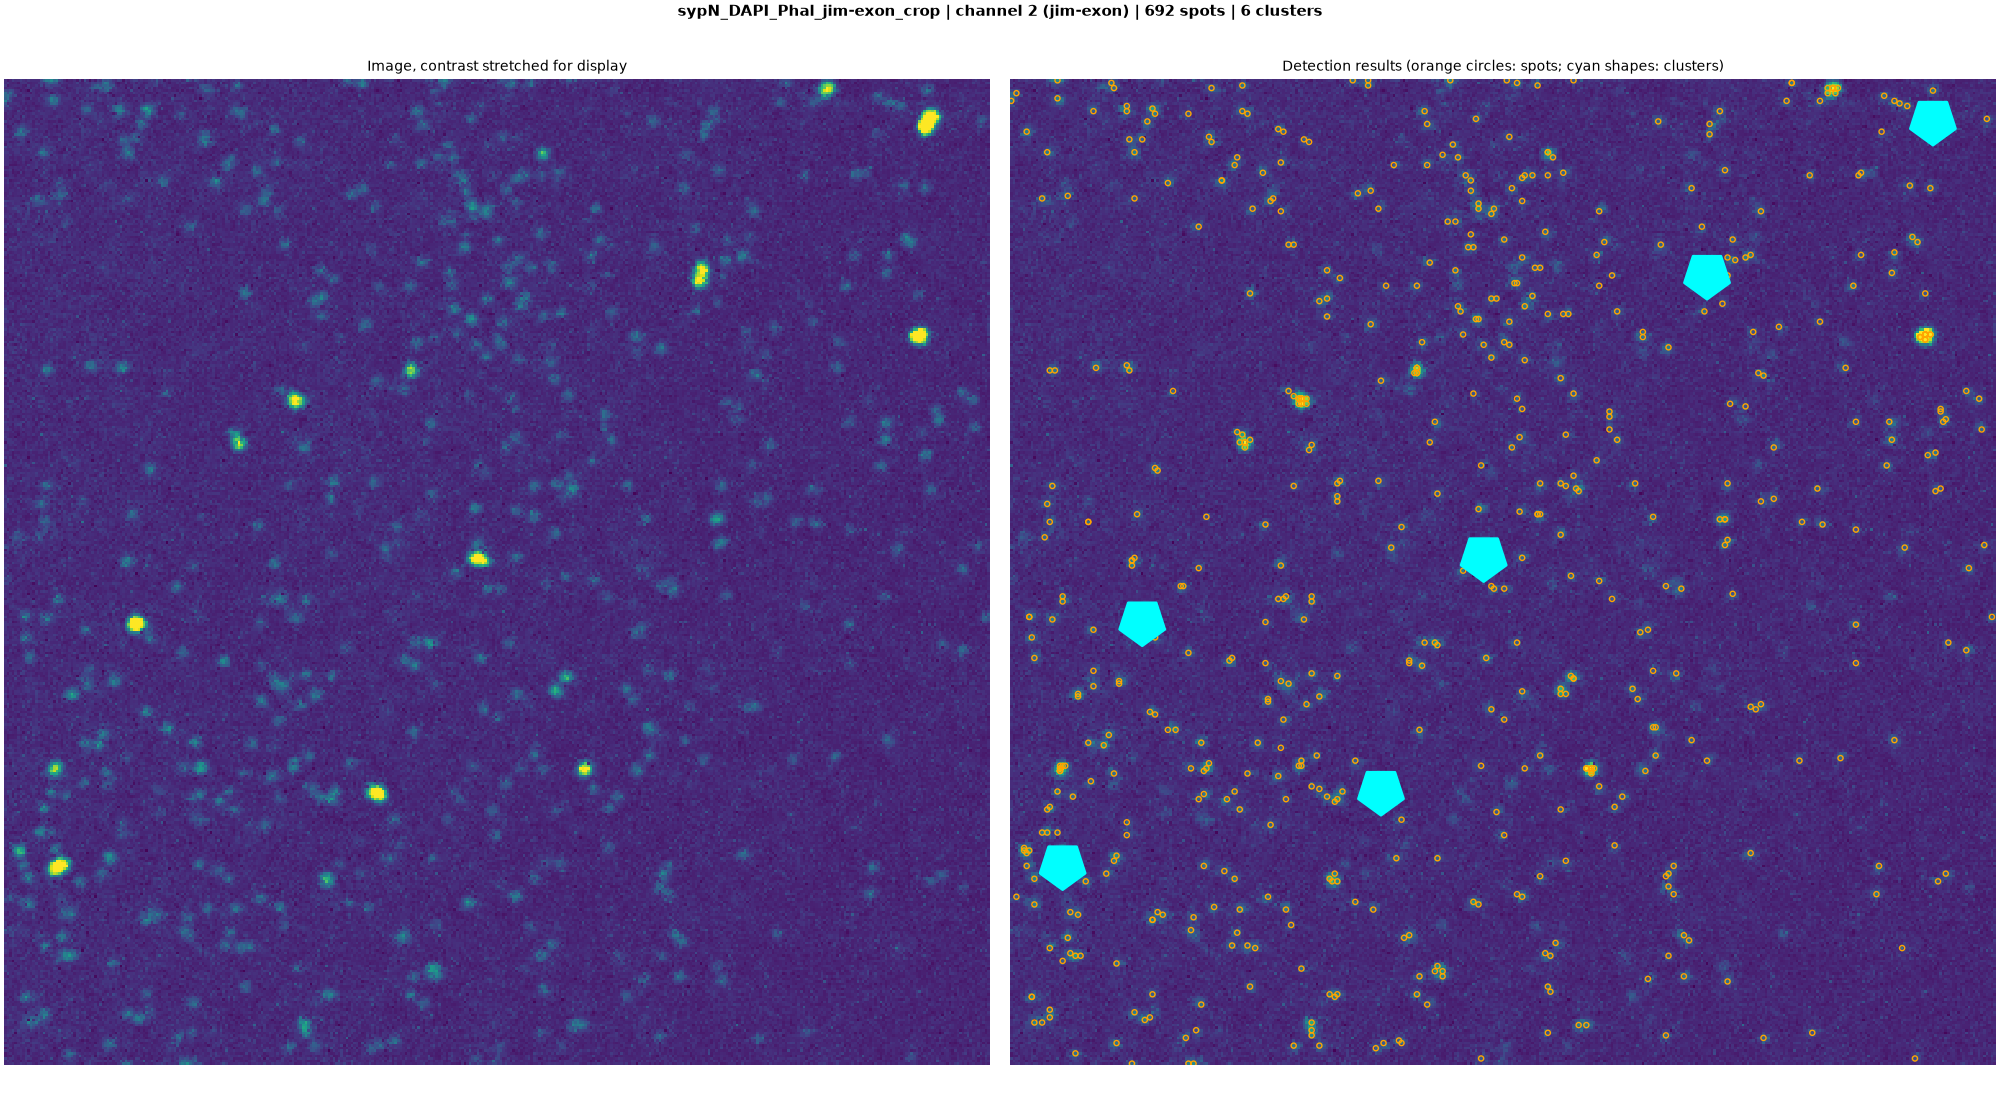
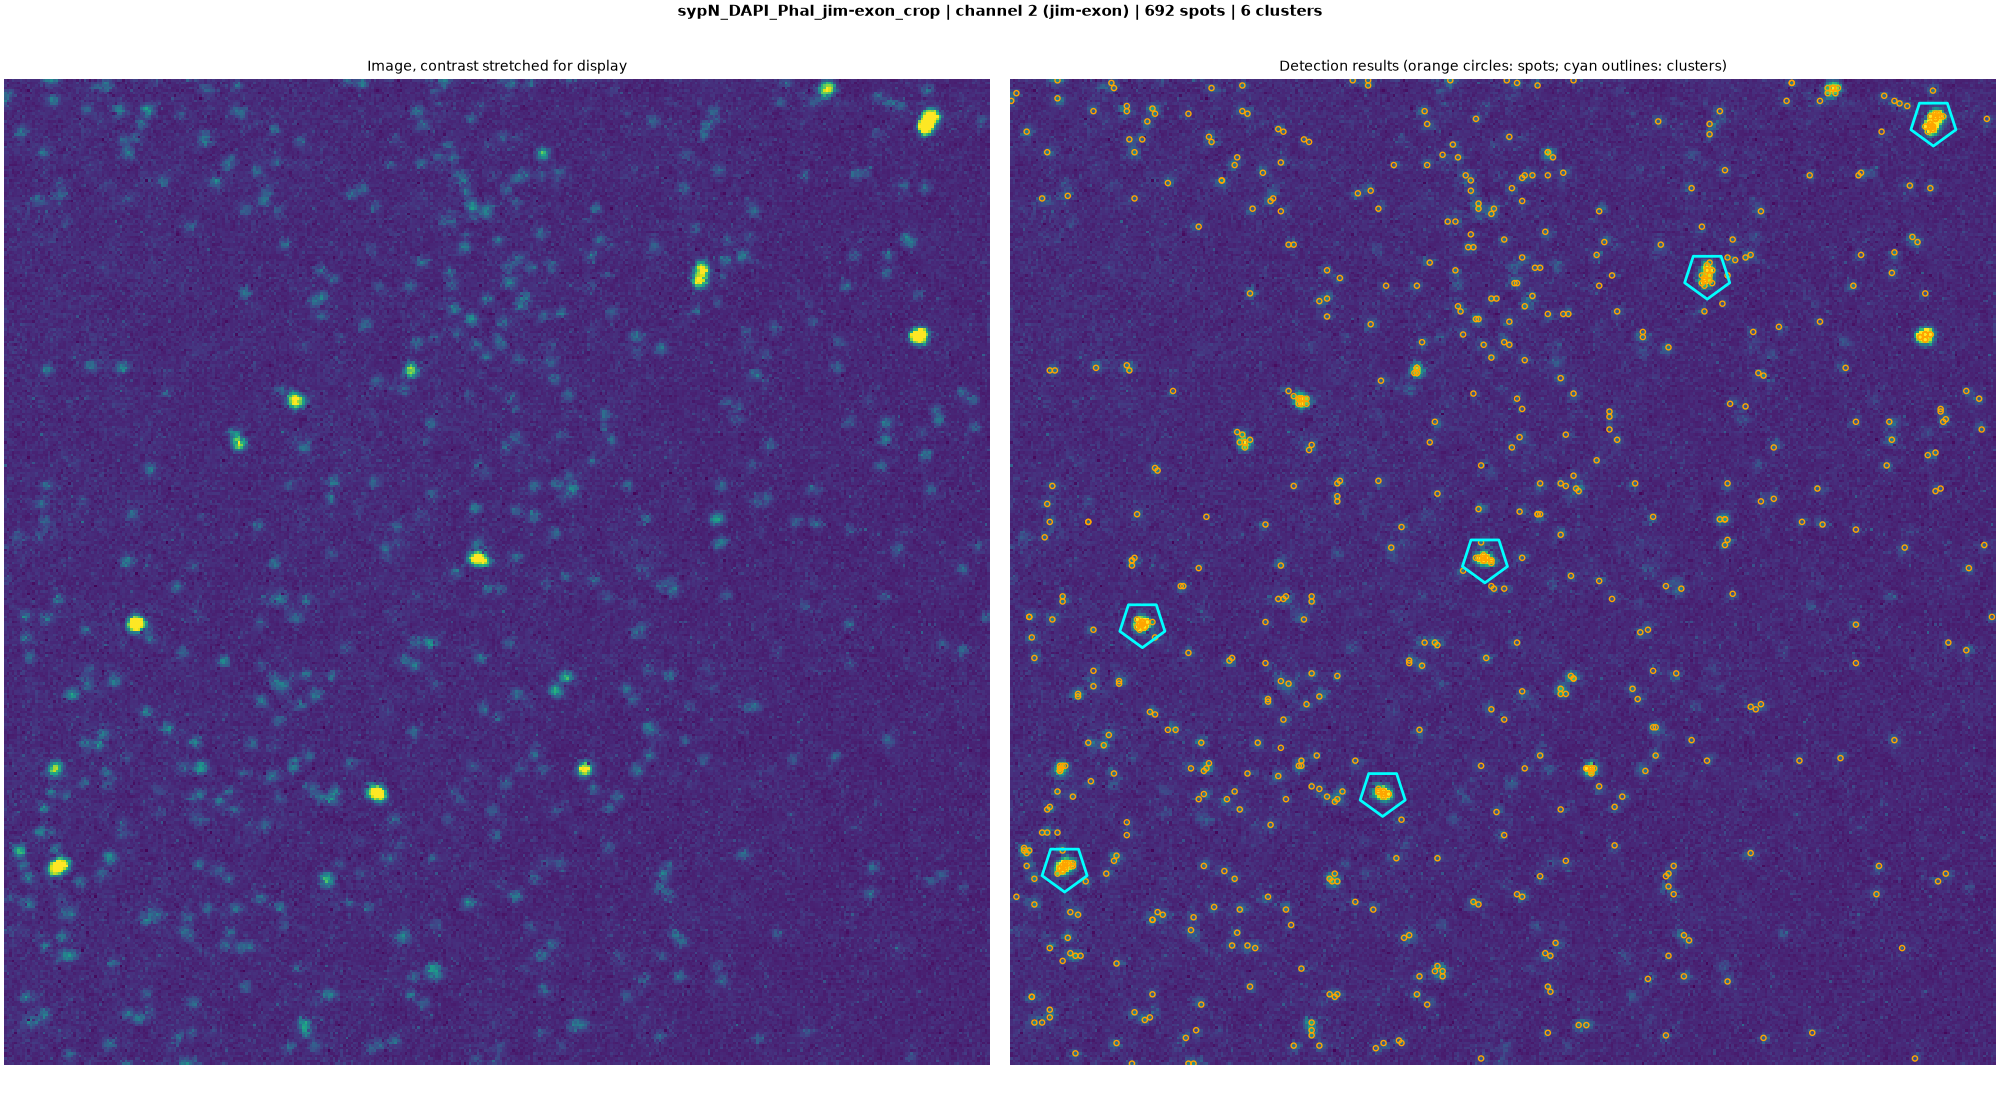
Bring the Phase 3 review up to date after tasks 3.13 to 3.17 (task 3.18)
Suite and environment checks run again, samples made again with the new
figures, deviations and points carried forward added, handoff updated.

diff --git a/docs/modularisation-streamlit-project/msp-devlog.md b/docs/modularisation-streamlit-project/msp-devlog.md
@@ -1651,6 +1651,8 @@ Waiting for the user's review of the samples.
 
 ### 3.11 Phase 3 review (24 Nov 2026)
 
+The numbers after the fixes of 3.13 to 3.17 are in entry 3.18.
+
 Checks run in a fresh shell, at commit `bf270e0`. One command is cut off after 10 minutes, so each suite run was made in two parts.
 
 | Check | Result |
@@ -2086,3 +2088,118 @@ Done by Opus 5.5 (medium) in `segmentation.py` and `clusters.py`, commit `9b7936
 **Departure from v1.** The `clusters` array of the `.npz` files and the centre columns of `clusters.csv` always hold decimal numbers. In v1 they held whole numbers when subpixel fitting was off, and decimals when it was on. The tests that compared the centres exactly with the v1 reference now ask for the same clusters and spot numbers and for each centre less than 1 px above v1's on each axis.
 
 **Tests changed:** the pre-treatment tests of 2.1 (new order, camera offset above the clip value, no negative values after a mean projection with either method); the five comparisons of cluster centres with v1 (test kit as configured and with the automatic threshold, the `.npz` files, the end-to-end run with label files, and decomposition on the crop).
+
+### 3.18 Phase 3 review brought up to date (26 Nov 2026)
+
+The checks of 3.11 run again after tasks 3.13 to 3.17, at commit `9b7936f`. Each suite run was made in two parts, in the background.
+
+| Check | Result |
+|---|---|
+| Whole suite, with the full-size image | 1,160 passed (128 and 1,032), none skipped, 13 min 0 s in all |
+| The same without the full-size image (`-m "not full_image"`) | 1,157 passed (128 and 1,029); run by the executor of 3.16 after its last change |
+| The same on a computer without the Cellpose model (model folder set to an empty folder) | 1,154 passed (125 and 1,029), 6 skipped, 11 min 51 s |
+| v1 imports in the main env (`image_utils`, `omero_tools` from `src/`, Python 3.9.23, Cellpose 3.1.1.2) | work as before |
+| Main env | `conda env export` identical to the export stored with the reference run |
+| v1 files (`environment.yml`, `image_utils.py`, `omero_tools.py`) | unchanged since `v1.0` |
+| `msp-environment.yml` | one line added: `imagecodecs==2026.11.11`, already installed (3.13). `pyproject.toml` unchanged |
+| Worker and `caffeinate` processes left after the tests | none |
+
+Phase 3 "done when" (plan):
+
+| Condition | Result | Entry |
+|---|---|---|
+| A full run on the test kit produces every output | yes | 3.6, 3.8 |
+| Repeating the run from `run_config.yaml` gives the same tables | yes | 3.8 |
+| The user has reviewed sample QC images and the log | the samples, made again, are with the user | below |
+| The `workers: auto` estimate is confirmed with the QC outputs on | confirmed (3.9). The fixes change no step that holds a full-size channel in memory; the estimate was not measured again | 3.9 |
+| The confirmed findings of 3.12 are fixed | findings 1 to 28, each with a test | 3.13–3.15 |
+| The decisions after 3.12 are carried out | pixel types, pre-treatment order, exact cluster centres, cluster outlines, the final message, checksums: done. The rolling-ball radius is compared; the default waits for the user | 3.13–3.17 |
+
+**What tasks 3.13 to 3.17 changed for a user**
+
+- Images that are not 8-bit, 12-bit or 16-bit are refused with how to convert them, and a TIFF file whose own axes differ from the layout of the run fails with a message (3.13).
+- The final QC shows only the cells of `cells.csv`; clusters are outlines; the elbow plot, the Cellpose QC figure and the calibration plot say what they show (3.14).
+- The settings check refuses values the steps cannot use; `calibration.csv` has the column `elbow_threshold`; the last line of a run counts failed and skipped channels; `run_info.yaml` records the label and model files read (3.15).
+- Cellpose pre-treatment clips after background subtraction; cluster centres are exact (3.16).
+- 9,979 lines in `src/bigfish_pypeline/`, 1,160 tests.
+
+**Deviations added to those of 3.11**
+
+| # | Deviation | Entry |
+|---|---|---|
+| 12 | Now: the whole suite takes 13 min with the full-size image, against an aim of 8 minutes. | 3.8, here |
+| 16 | 32-bit float images are refused, where the spec had them processed. User's decision; spec 5.3 and 13 changed. | 3.12, 3.13 |
+| 17 | Clusters are drawn as outlines, not v1's filled shapes. User's decision. | 3.14 |
+| 18 | Cellpose pre-treatment clips after background subtraction, where v1 clipped before, and sets values below 0 to 0 after background subtraction. User's decision; spec 5.7 changed. | 3.16 |
+| 19 | Cluster centres always have decimals, in `clusters.csv` and in the `clusters` array of the `.npz` files, where v1 gave whole pixels with subpixel fitting off. User's decision; spec 5.6 and 8.2 changed. | 3.16 |
+| 20 | `run_info.yaml` has the key `files_read` and four more package versions; `calibration.csv` has the column `elbow_threshold`. Spec 8.2 and 8.4 changed. | 3.15 |
+| 21 | The measurements of 3.17 were made by the Opus executor, not by the orchestrator, who checked them with a separate script. | 3.17 |
+| 22 | Three small changes were written by the orchestrator: the sentence on "Scale when converting" in the message for a refused pixel type, the rule that the elbow values cannot fail a channel with a given threshold, and the wording of one docstring. | 3.13, 3.15, 3.16 |
+| 23 | A result that arrives in the same pass as a stop is not kept, and `run.log` gives the stop message at the end of the log. | 3.15 |
+
+**Samples, made again** (`~/bigfish-testdata/phase3/samples/`, by `make_samples.py` in that folder; each has its `settings.yaml`, the text the terminal showed and the run folder):
+
+| Sample | Folder | Shows |
+|---|---|---|
+| Test kit with its label file | `kit_label_files_png/` | elbow plot with the new axis, detection plot and final QC with cluster outlines (44 cells), `.npz` file |
+| The same with the final QC as HTML | `kit_label_files_html/` | the interactive page |
+| The same with `drop_border_cells` on | `kit_border_cells_dropped/` | the final QC with 26 cells; the log line "44 cells in the label image, 26 kept" |
+| Test kit with Cellpose | `kit_cellpose/` | the Cellpose QC figure with "image after pre-treatment" and "no diameter set (image used at its own scale)" (43 cells; masks not judged) |
+| Calibrated threshold, four small images | `calibrated_four_images/` | `calibration.csv` with `elbow_threshold`, the calibration plot |
+| The same with a lower limit of 14 | `calibrated_lower_limit/` | three of the four images raised from 13 to 14, marked on the plot |
+| Full-size image with Cellpose | `full_size_cellpose/` | the QC images at full size: 36,867 spots, 265 clusters and 1,287 cells, as in the run of 3.9 for this image; 6 min 7 s |
+
+The crop's QC images: [elbow plot](figures/phase3/crop_ch2_elbow.png), [detection plot](figures/phase3/crop_ch2_detection.png), [final QC](figures/phase3/crop_ch2_final.png), [final QC with the border cells left out](figures/phase3/crop_ch2_final_border_cells_dropped.png); the calibration plots [without](figures/phase3/calibration_four_images.png) and [with a lower limit](figures/phase3/calibration_lower_limit.png).
+
+Looked at by the orchestrator: every sample finished without a warning; the logs, `run_info.yaml` and `calibration.csv` hold the new items; the figures above and the full-size detection plot. The run folders of 3.9 named in 3.10 keep the old look of the figures.
+
+**Points carried forward, added to those of 3.11**
+
+Phase 4 and Phase 5:
+
+11. `io.check_image` and `io.pixel_type_problem` check an image from its header; the notebook and the app should use them before reading pixels.
+12. The final QC functions draw only the cells of the cells table they are given (3.14).
+13. From the reviews: freeing Cellpose's GPU memory while an abandoned segmentation still runs; the check for damaged files is not made for use from several threads, which matters if the app reads images itself.
+
+Phase 6 (documentation):
+
+14. Converting an image to 16-bit in Fiji: the "Scale when converting" box, and a 16-bit signed image, which needs another route.
+15. A Fiji hyperstack is stored `ZCYX`, so the layout of the run must say so.
+16. The rolling-ball radius is in pixels, so the same setting means another size at another pixel size.
+17. SNR values depend on the background method and on how far the ring lies from the spot; they cannot be compared between rolling-ball and top-hat runs.
+18. The spot-radius formula for a confocal takes a very small pinhole; a spinning disk is nearer the widefield case. On the test image the radius is 0.99 px in Y and X, so a small change in wavelength or pixel size makes the detection window larger.
+19. With decomposition and subpixel fitting both on, the spots of one focus are pulled towards the same peak.
+20. The size of the HTML final QC (about 12 MB for a full-size image and channel).
+21. With a nuclear label image the tables still say "cells", and spots above and below a nucleus count as nuclear.
+22. The reference-spot picture is not the spot that decomposition fits; each QC picture sets its own contrast.
+23. Counts above 2,000 spots change slightly with the image name (renamed files, a local copy against the OMERO image), because the seed comes from the name.
+24. The defaults were checked on one specimen and its crops.
+25. A manual threshold and a `min_spots` value chosen with top-hat do not carry over to rolling ball at 5 px; from 10 px up the threshold does (3.17).
+
+Small points left as they are:
+
+26. The calibration plot's axis shows decimals for whole-number thresholds.
+27. The Cellpose QC figure counts every cell Cellpose found, also with `drop_border_cells` on.
+28. In a run with label files, an image the runner marks failed has no segmentation status in `images.csv`.
+29. If a later version of the OMERO library joins a session in another way, an ended session would be reported for each image as a connection problem; the tests with the real library would then fail (3.13).
+
+**For the user to decide**
+
+- The default rolling-ball radius for FISH channels (3.17). If it changes, `config.py`, the spec and the test kit's expected rolling-ball tables are updated before sign-off.
+- Whether the tests may run in parallel (`pytest-xdist` in `msp-environment.yml`); the suite now takes 13 minutes.
+- The sentence on "Scale when converting" in the message for a refused pixel type (3.13): keep it in the message, or in the documentation only.
+
+**Manual checks for the user**
+
+1. The samples above: the QC images, `run.log` and `run_info.yaml`. Are the pictures, the wording and the file names what you expect?
+2. Open a label file written by a Cellpose run in Fiji, e.g. the one in `samples/kit_cellpose/` under `labels/`, and see that Image › Properties gives the pixel size in µm (3.15).
+3. Try `bigfish-pypeline check` on a settings file with a value out of range, e.g. `alpha: 1.5`, and on a folder that holds a 32-bit image: are the messages clear?
+4. Read the "choices the plan does not settle" and "changes in behaviour" in entries 3.13, 3.14 and 3.15.
+5. The manual checks of 3.11 that are still open: the HTML final QC in a browser, and the test kit run from the command line.
+6. Still open from Phase 2: the OMERO fix on the real server, which now also covers the new rejoining code of 3.13, and an image for the Cellpose mask review.
+
+**Housekeeping**
+
+- `~/bigfish-testdata/phase3/` holds 1.9 GB: 1.7 GB in `rolling_ball/` (1.6 GB of saved background results in its `cache/`, which can be deleted and made again) and 0.14 GB of samples.
+- `docs/modularisation-streamlit-project/figures/` holds 5.6 MB, of which 1.9 MB is the rolling-ball comparison.
+- `msp` is 44 commits ahead of GitHub: none of the Phase 3 work has been pushed.

diff --git a/docs/modularisation-streamlit-project/msp-handoff.md b/docs/modularisation-streamlit-project/msp-handoff.md
@@ -1,21 +1,21 @@
 # MSP handoff
 
-Where the work stands, for whoever picks it up next. Updated 25 Nov 2026. Details are in `msp-devlog.md`; tasks are in `msp-plan.md`.
+Where the work stands, for whoever picks it up next. Updated 26 Nov 2026. Details are in `msp-devlog.md`; tasks are in `msp-plan.md`.
 
 ## State
 
 - **Phases 0, 1 and 2:** done, signed off, merged into `main` and pushed. Phase 2 was signed off and merged on 24 Nov 2026 (devlog 2.8).
-- **Phase 3 (outputs, logs and QC):** planned in `msp-plan.md` on 24 Nov 2026; the user answered the three decisions (devlog 3.0) and two more on the QC files (devlog 3.5, at its end). Tasks 3.1 to 3.9 are done and committed (devlog 3.1–3.9); the `workers: auto` figures stand. The samples of 3.10 are made (devlog 3.10) and wait for the user's review. The phase review (devlog 3.11) is written, with its checks run at commit `bf270e0`. Independent reviews by Gemini 4 Neon and GPT-6.2 Astra (devlog 3.12, findings 1–28) found problems from Phases 1–3 to fix before sign-off; tasks 3.13–3.18 are in the plan. Tasks 3.13 (reading images), 3.14 (QC figures) and 3.15 (settings and runner) are done and committed (devlog 3.13–3.15). Task 3.16 was started on 25 Nov 2026 and is not yet reviewed or committed: if the working tree holds changes in `segmentation.py`, `clusters.py` or the tests, they are the executor's unreviewed work. The comparison of task 3.17 is checked and in the devlog (3.17); the user has not yet chosen the default radius. The user decided that only 8-bit, 12-bit and 16-bit images are accepted, and answered the six decisions after the reviews (rolling-ball radius, Cellpose pre-treatment, cluster centres, cluster marks, the final message of a run with failed images, checksums in `run_info.yaml`).
+- **Phase 3 (outputs, logs and QC):** every task is done and committed on `msp`. Tasks 3.1 to 3.11 are in devlog 3.1–3.11. Independent reviews by Gemini 4 Neon and GPT-6.2 Astra (devlog 3.12, findings 1–28) led to tasks 3.13 to 3.17, all done (devlog 3.13–3.17): reading images, QC figures, settings and runner, Cellpose pre-treatment and cluster centres, and the rolling-ball radius comparison. The phase review is brought up to date in devlog 3.18, with its checks run at commit `9b7936f`. Phase 3 now waits for the user: the default rolling-ball radius, the review of the samples, and the sign-off.
 - **OMERO:** the fix for a dropped connection and for the session key in the terminal is committed and tested with stand-ins for the server only (devlog, "OMERO fix: second try and a clean terminal"). The check on the real server is still to be run by the user.
-- At the Phase 3 review (commit `bf270e0`), 1,057 tests passed in `bigfish-msp` with the full-size image, 1,054 without it (9 min 36 s) and 1,048 without the Cellpose model. After task 3.15, 1,147 pass without the full-size image (run in two parts, 5 min 42 s and 4 min 31 s); the whole suite is run again in 3.18. A foreground command is cut off after 10 minutes: run the suite in the background and in two parts (the split is in devlog 3.8).
+- 1,160 tests pass in `bigfish-msp` with the full-size image (13 min), 1,157 without it and 1,154 without the Cellpose model (devlog 3.18). A foreground command is cut off after 10 minutes: run the suite in the background and in two parts (`tests/test_batch_run.py`, `tests/test_batch_cellpose.py`, `tests/test_end_to_end_outputs.py` and `tests/test_end_to_end_cellpose.py` as one part, about 6 minutes; the rest with those four deselected, about 7 minutes).
 - Everything of Phase 3 is committed on `msp` and not pushed.
 
 ## Next step
 
-1. Review, check and commit task 3.16, as briefed in the plan. If the user chooses a new default radius for FISH channels (devlog 3.17), change it in `config.py`, the spec and the test kit's expected tables after 3.15.
-2. The user reviews the samples listed in devlog 3.10 (QC images, `run.log`, `run_info.yaml`), redrawn where 3.14 changed a figure.
-3. Task 3.18: rerun the suite (in two parts: one command is cut off after 10 minutes) and bring devlog 3.11 up to date. The user decides whether the tests may run in parallel (`pytest-xdist` in `msp-environment.yml`), signs off Phase 3 and says when to merge `msp` into `main` and push. Nothing is merged or pushed before that.
-4. After the merge, Phase 4 (Optimise notebook) is planned in detail in `msp-plan.md`, starting from the points carried forward in devlog 3.11.
+1. The user chooses the default rolling-ball radius for FISH channels (devlog 3.17). If it changes: `config.py`, the spec, the tests and the test kit's expected rolling-ball tables are updated, the suite is run again and the samples are made again.
+2. The user reviews the samples listed in devlog 3.18 (QC images, `run.log`, `run_info.yaml`) and the other points "for the user to decide" there. Changes asked for are made before sign-off.
+3. The user signs off Phase 3 and says when to merge `msp` into `main` and push. Nothing is merged or pushed before that.
+4. After the merge, Phase 4 (Optimise notebook) is planned in detail in `msp-plan.md`, starting from the points carried forward in devlog 3.11 and 3.18.
 
 ## How the work is run
 
@@ -31,7 +31,7 @@ Where the work stands, for whoever picks it up next. Updated 25 Nov 2026. Detail
 - **The default rolling-ball radius for FISH channels** (5 px now): the comparison at 10, 15 and 25 px is in devlog 3.17.
 - **The wording of the message for a refused pixel type** (devlog 3.13): the orchestrator added the advice to untick "Scale when converting" in Fiji.
 - **A label file in Fiji** (devlog 3.15): open a label file written by a Cellpose run and see that Image › Properties gives the pixel size in µm.
-- **Review of the Phase 3 samples** (devlog 3.10), the decision on running the tests in parallel, and the sign-off of Phase 3 (devlog 3.11).
+- **Review of the Phase 3 samples** (devlog 3.18), the decision on running the tests in parallel (the suite takes 13 minutes), and the sign-off of Phase 3 (devlog 3.18).
 - **Manual checks of the Phase 2 review** (devlog 2.8): Cellpose on the test kit, a look at a full-size run folder, and the "choices the spec does not settle" in 2.1, 2.3 and 2.4.
 - Optional checks from the Phase 1 review that the user has not reported on: trying `check` and `batch` on the test kit, and reading the "choices the spec does not settle" in devlog 1.2, 1.3, 1.8, 1.9 and 1.10.
 
@@ -44,7 +44,7 @@ Where the work stands, for whoever picks it up next. Updated 25 Nov 2026. Detail
 | `~/bigfish-testdata/benchmarks/phase0/` | Phase 0 benchmark scripts and numbers, the pattern for task 2.7 |
 | `~/bigfish-testdata/benchmarks/phase2/` | Benchmark scripts, logs and numbers of task 2.7 |
 | `~/bigfish-testdata/benchmarks/phase3/` | Benchmark scripts, logs and numbers of task 3.9, and a full-size run folder with every output |
-| `~/bigfish-testdata/phase3/samples/` | Sample run folders for the user's review (task 3.10), with the script that makes them |
+| `~/bigfish-testdata/phase3/samples/` | Sample run folders for the user's review, made again on 26 Nov 2026 (devlog 3.18), with the script that makes them |
 | `~/bigfish-testdata/phase3/samples_3.14/` | The QC figures changed by task 3.14, drawn from the crop, with the script that makes them |
 | `~/bigfish-testdata/phase3/rolling_ball/` | Scripts, logs and tables of the rolling-ball radius comparison (task 3.17), with a copy of the package at commit `25f8270` |
 | `~/bigfish-testdata/phase1/` | Full-size runs of Phase 1 and the v1 scripts run in the new env |
@@ -58,6 +58,8 @@ Where the work stands, for whoever picks it up next. Updated 25 Nov 2026. Detail
 
 - Only 8-bit, 12-bit and 16-bit images are read; other pixel types are refused with how to convert them. A TIFF file whose own axes differ from the layout of the run fails (a Fiji hyperstack is always `ZCYX`) (devlog 3.13).
 - The final QC shows only the cells of `cells.csv`, and clusters are drawn as outlines (devlog 3.14).
+- Cellpose pre-treatment clips after background subtraction, and cluster centres always have decimals (devlog 3.16). Both depart from v1 by the user's decision.
+- An executor cut off by a lost connection can be resumed with its context by sending it a message; its edits stay in the working tree.
 
 - The user reviewed the rolling ball comparison and kept rolling ball as the default for FISH channels (devlog 2.6). It gives about a third more clusters than top-hat on the full-size exon channel, because decomposition places more spots in each bright focus on the rolling ball image.
 - OMERO output names leave out a `.tif` or `.tiff` ending (user's decision, devlog): image 5806 gives `5806_20240308_sypN_DAPI_Phal_jim-exon_jim-intron_100x_00001`.
